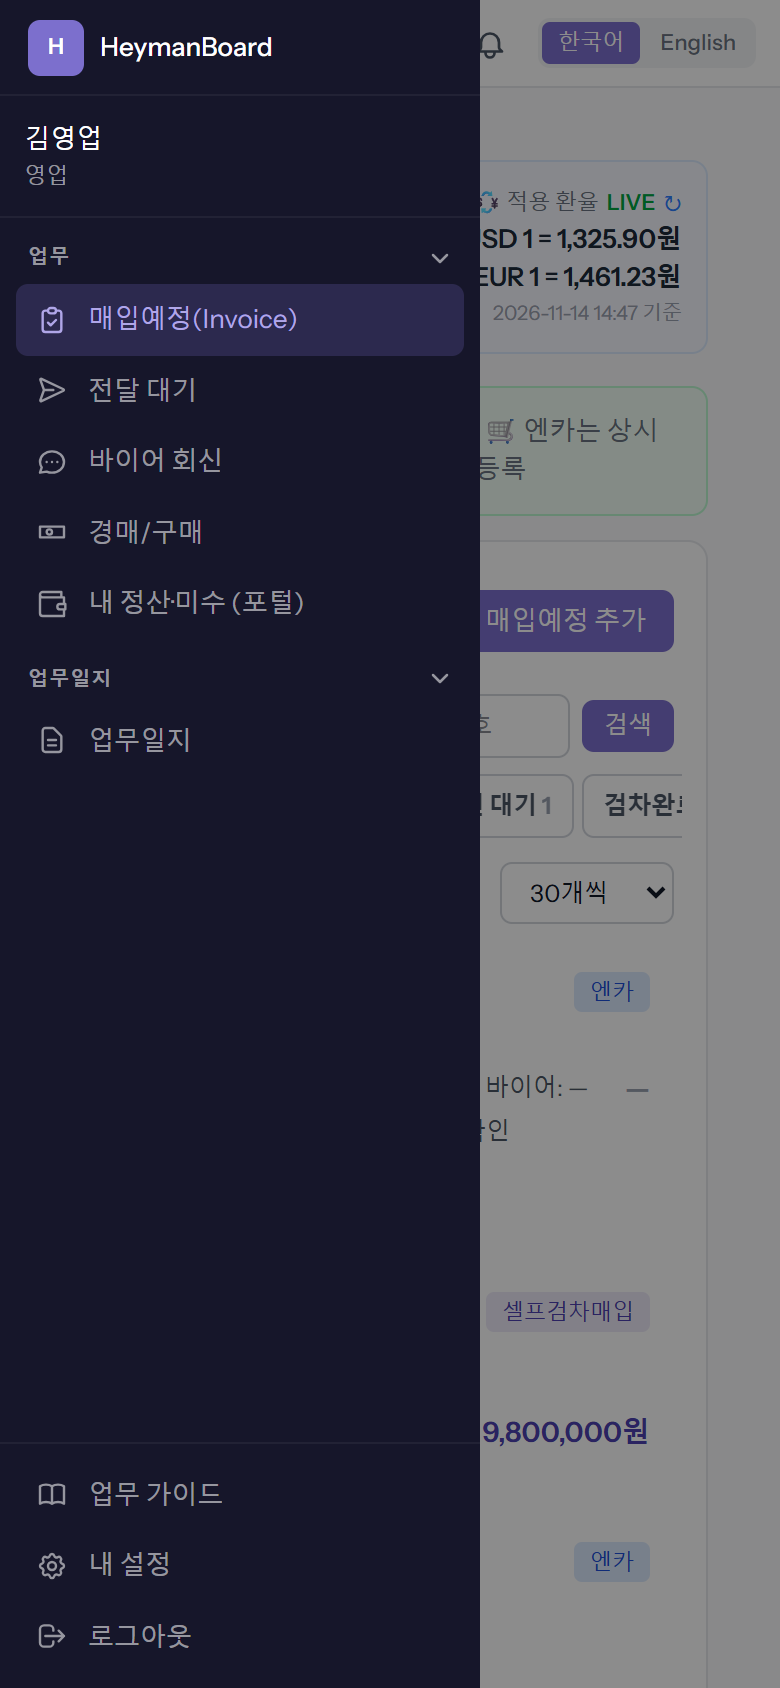
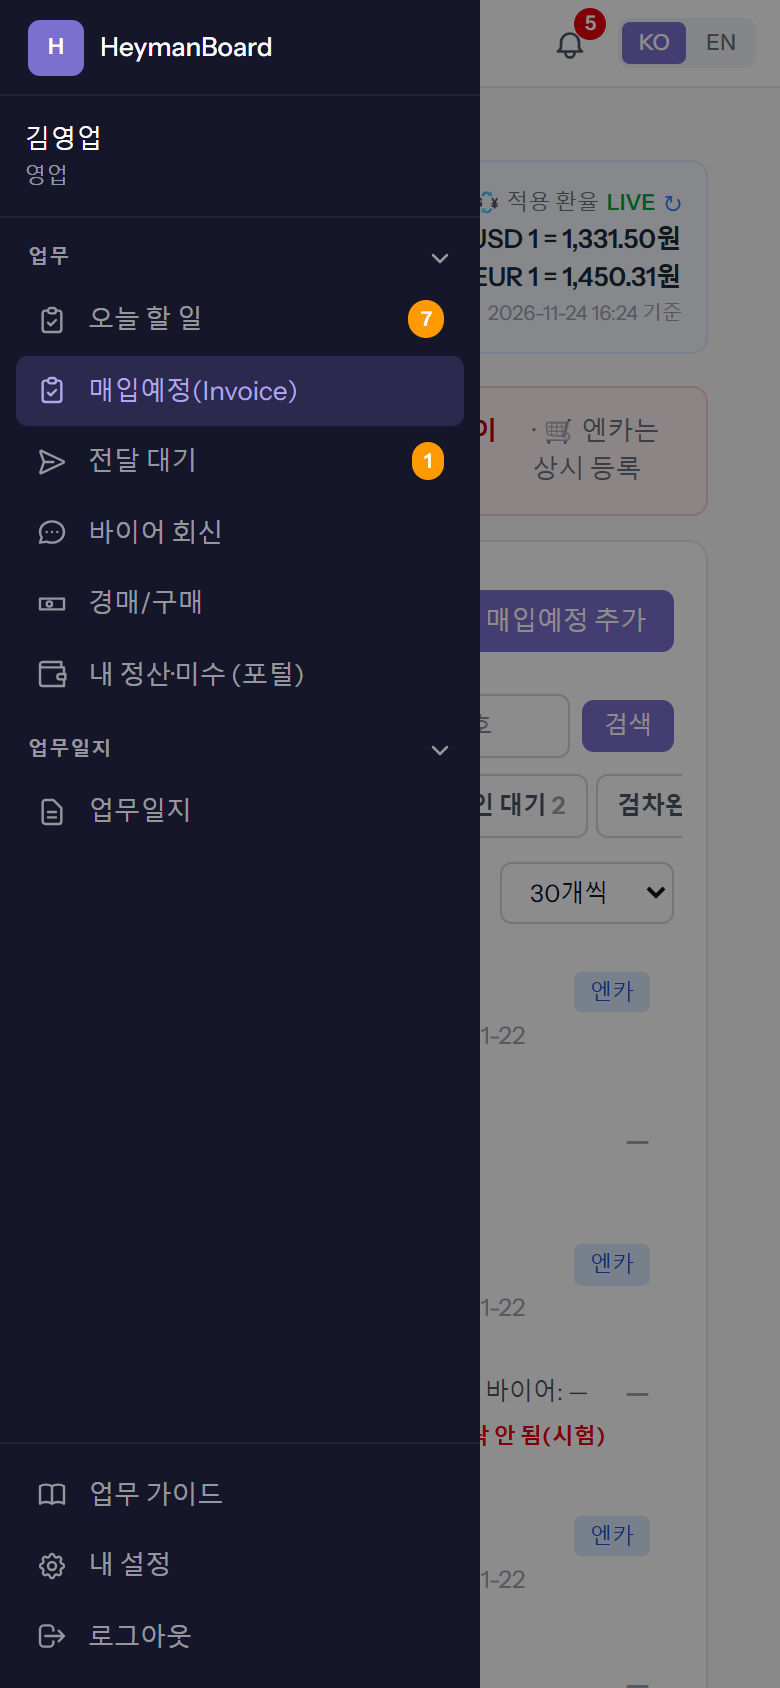
docs(guides): 「오늘 할 일」 가이드 새로(그림 3) + 클레임 묶어서 ERP 로 보내기·자동 종결·재결재 잠금(9단계·그림 4) + 포털 전체 보기 규칙·처음 쓰기 메뉴 그림 + 챗봇 카드 2장 추가·4장 보강(102장)

diff --git a/resources/guides/today/index.html b/resources/guides/today/index.html
@@ -1,0 +1,54 @@
+<!-- 오늘 할 일 — 로컬 가짜 계정으로 찍었다(2026-11-24). 영업 = 김영업(guide-demo@local.test), 팀 표 = 업무관리자 정팀장(leader@board.test).
+     77오7001~7003 은 줄 종류를 보이려고 로컬 DB 에 직접 넣은 가짜 차(7003 = 일부러 실패한 ERP 전송 기록). 금액·바이어·사유는 예시. -->
+
+<p style="margin:0 0 14px;color:#4b5563;line-height:1.65">
+    로그인하면 가장 먼저 뜨는 화면입니다. 내 차 가운데 <strong>지금 내가 손대야 움직이는 것</strong>만 한 줄씩 모아 보여 주고, 줄의 버튼을 누르면 <strong>평소 쓰는 그 화면</strong>이 그 차 상세 창이 열린 채로 뜹니다.
+    화면·버튼은 하나도 바뀌지 않았습니다. 찾아다니는 수고만 줄인 것입니다.
+</p>
+
+<h2 class="gd-sec">① 영업 — 내 할 일</h2>
+
+<div class="gd-step">
+    <div class="gd-n">1단계</div>
+    <h3>로그인하면 「오늘 할 일」이 뜹니다 — 위에서부터 처리합니다</h3>
+    <p>사이드바 맨 위 「오늘 할 일」 옆 숫자가 지금 남은 줄 수입니다. 줄은 급한 순서로 놓입니다 — <b>빨강</b>(내가 손대지 않으면 멈춰 있는 것) → <b>노랑</b>(답을 받아 처리할 차례) → <b>파랑</b>(다음 단계로 보낼 수 있는 것).</p>
+    <img src="01.png" alt="오늘 할 일 — ERP 로 넘어가지 않았습니다, 첨부 0장, 검차가 멈춰 있습니다, 바이어 회신, 검차 완료 줄과 열기 버튼" width="720">
+    <ul>
+        <li><b>ERP 로 넘어가지 않았습니다</b> — 구매확정은 했는데 ERP 전송이 실패했거나(재고 상한 초과 포함) 30분이 지나도 보낸 기록이 없는 차. 「경매/구매」에서 열어 다시 보냅니다.</li>
+        <li><b>구매확정을 못 하고 있습니다 — 첨부 0장</b> — 바이어가 수락했는데 딜러 사진·서류가 없어 확정이 막힌 차.</li>
+        <li><b>구매확정할 차례입니다</b> — 첨부까지 있고 확정만 남은 차.</li>
+        <li><b>검차가 멈춰 있습니다</b> — 검차원이 Skip(사유)했거나 지역이 비어 배정이 안 되는 차. 매입예정 상세 창에서 재검차 요청·지역 입력을 합니다.</li>
+        <li><b>바이어 회신을 처리할 차례입니다</b> — 바이어에게 전달한 차. 답을 받았으면 「바이어 회신」에서 수락·거절합니다.</li>
+        <li><b>검차 완료 — 바이어에게 전달할 수 있습니다</b> — 검차 사진·영상이 들어온 차.</li>
+        <li><b>배차가 거절됐습니다 / 배차완료 — 매입잔금 요청을 보낼 차례입니다</b> — 최근 14일 탁송 결과. 매입예정 상세 창 「탁송 배차」 탭이 열립니다.</li>
+    </ul>
+    <p>위의 칩 「막힘」·「다음 단계 가능」으로 거를 수 있습니다. 줄 아래 회색 글씨는 그 단계에 들어온 시각과 며칠째인지입니다.</p>
+</div>
+
+<div class="gd-step">
+    <div class="gd-n">2단계</div>
+    <h3>줄의 버튼을 누르면 평소 화면이 그 차를 연 채로 뜹니다</h3>
+    <p>예를 들어 [전달 화면에서 열기]를 누르면 「전달 대기」 화면이 열리고 그 차 상세 창이 바로 열려 있습니다. 처리는 평소처럼 그 창에서 합니다. 위 [← 오늘 할 일]을 누르면 돌아갑니다.</p>
+    <img src="03.png" alt="전달 대기 화면 — 위에 오늘 할 일로 돌아가는 버튼, 11가1005 상세 창이 열려 있음" width="720">
+    <p>처리하면 그 줄은 「오늘 할 일」에서 사라집니다(다음 단계 줄로 바뀌기도 합니다). 이미 다른 단계로 넘어간 차를 누르면 상세 창 없이 그 화면만 열립니다.</p>
+</div>
+
+<h2 class="gd-sec">② 관리·업무관리자 — 팀 표</h2>
+
+<div class="gd-step">
+    <div class="gd-n">3단계</div>
+    <h3>위의 팀 표에서 누가 어디서 막혔는지 봅니다</h3>
+    <p>관리·업무관리자 이상은 「오늘 할 일」 맨 위에 <b>팀 표</b>가 붙습니다 — 영업마다 칸별(ERP 안 넘어감·첨부 없음·검차 멈춤·배차·회신 대기·전달 가능·구매확정 대기) 줄 수. 숫자를 누르면 아래 목록이 그 사람의 그 칸 줄만 보여 주고, 다시 누르거나 [전체 보기]를 누르면 풀립니다.</p>
+    <img src="02.png" alt="팀 표 — 영업별 ERP 안 넘어감, 첨부 없음, 검차 멈춤, 배차, 회신 대기, 전달 가능, 구매확정 대기 칸과 내 할 일" width="720">
+    <p>팀 표 아래 「내 할 일」은 내가 직접 등록한 차의 줄입니다. 그 아래 「차 말고 내 차례인 것」에는 처리할 클레임·업무일지 결재 차례가 있으면 나옵니다.</p>
+</div>
+
+<div class="gd-check">
+    <h3>알아 둘 것</h3>
+    <ul>
+        <li>보이는 차는 평소와 같습니다 — 영업은 본인 차, 관리는 본인 + 포털을 공유해 준 영업의 차, 업무관리자 이상은 전체.</li>
+        <li>ERP 의 매입 락 승인 결과·입금 요청 확인/거절은 이 화면이 아니라 위쪽 종(🔔)에서 봅니다.</li>
+        <li>현지확인·경매 역할은 첫 화면이 종전 그대로입니다.</li>
+        <li>사이드바 숫자는 30초마다 다시 셉니다. 방금 처리한 줄이 숫자에 잠깐 남아 있을 수 있습니다.</li>
+    </ul>
+</div>

diff --git a/resources/guides/claim-handle/index.html b/resources/guides/claim-handle/index.html
@@ -1,6 +1,7 @@
 <!-- 클레임 — 로컬 가이드 차 11가1001(김영업 판매, 바이어 GUIDE SAMPLE TRADING)로 접수부터 ERP 반영까지 한 바퀴 찍었다(2026-11-14).
      담당자 = 관리자(로컬), 결재자 = 로컬 결재 직급 계정(임부장·오상무·홍대표). 바이어 증빙 그림 3장은 「업무 가이드 예시」라고 적은 가짜 그림.
-     결재 링크는 알림톡 대신 로컬에서 직접 만들어 열었다(결재자 전화번호 없음). 금액·사유는 예시. -->
+     결재 링크는 알림톡 대신 로컬에서 직접 만들어 열었다(결재자 전화번호 없음). 금액·사유는 예시.
+     9단계(묶어서 보내기, 2026-11-24) = 같은 로컬에서 바이어 「B2B데모 파트너 LLC」 가짜 클레임 2건(90데0001·90데0002)을 묶어 로컬 ERP 로 보냈다. -->
 
 <p style="margin:0 0 14px;color:#4b5563;line-height:1.65">
     바이어가 받은 차에 문제가 있다고 하면, 영업이 board 에 <strong>접수</strong>하고 → 클레임 담당자가 <strong>보고서</strong>를 써서 → 부장·상무·대표 <strong>결재</strong>를 받은 뒤 → 승인된 금액을 <strong>ERP</strong> 바이어 「클레임」 탭에 남깁니다.
@@ -98,13 +99,32 @@
     <p>건 맨 위에 「최종 승인」과 확정 금액이 뜨고 [ERP 로 보내기]가 생깁니다. 누르면 받을 바이어(접수 때 ERP 판매 기록에서 가져온 바이어)와 금액을 한 번 더 보여 줍니다. 바이어가 맞으면 [이 바이어로 보내기]. 다르면 보내지 말고 ERP 에서 그 차의 바이어를 먼저 고친 뒤 [ERP 다시 불러오기]를 누릅니다.</p>
     <img src="07.png" alt="ERP 로 보내기 — 받을 바이어 GUIDE SAMPLE TRADING, FINAL AMOUNT USD 250, REFUND" width="440">
     <img src="08.png" alt="ERP 바이어 클레임 탭에 반영했습니다 — ERP 반영됨 #1" width="720">
+    <p>ERP 로 보내면 그 건은 <strong>바로 종결</strong>됩니다(「종결」 탭으로 옮겨 갑니다). [종결]을 따로 누르지 않습니다.</p>
+</div>
+
+<div class="gd-step">
+    <div class="gd-n">9단계</div>
+    <h3>같은 바이어 건이 여러 개면 체크해서 [묶어서 ERP 로 보내기]</h3>
+    <p>목록에서 최종 승인된 건 앞에 체크칸이 있습니다. 같은 바이어 건을 2건 이상 체크하면 위에 「N건 선택 · 바이어 · 합계」 줄이 뜹니다. 다른 바이어 건을 누르면 체크되지 않고 노란 안내가 나옵니다.</p>
+    <img src="13.png" alt="클레임 목록 — 90데0001·90데0002 체크, 2건 선택 · B2B데모 파트너 LLC · 합계 EUR 750.00, 묶어서 ERP 로 보내기" width="720">
+    <p>[묶어서 ERP 로 보내기]를 누르면 받을 바이어와 <b>차마다 확정 금액</b>, 합계를 보여 줍니다. 맞으면 [N건 묶어서 보내기].</p>
+    <img src="14.png" alt="묶어서 ERP 로 보내기 창 — 받을 바이어 B2B데모 파트너 LLC, 90데0001 EUR 300, 90데0002 EUR 450, 합계 EUR 750" width="440">
+    <ul>
+        <li>ERP 바이어 「클레임」 탭에는 묶음 한 줄(합계)로 들어가고, 펼치면 차마다 금액이 그대로 보입니다.</li>
+        <li>하나라도 ERP 가 받지 않으면 <b>전부 안 들어갑니다</b>(board 도 아무것도 바뀌지 않고 빨간 사유가 뜹니다).</li>
+        <li>이미 따로 ERP 로 보낸 건도 묶음에 넣을 수 있습니다 — 창에 「이미 보냄 — 묶음에 연결」로 나옵니다.</li>
+        <li>판매 영업이 달라도 바이어가 같으면 묶을 수 있습니다. 통화가 다르면 묶을 수 없습니다.</li>
+    </ul>
+    <p>보내면 그 건들은 모두 종결되고, 목록·건 맨 위에 「묶음 …」 표시가 붙습니다.</p>
+    <img src="15.png" alt="종결 탭 — 묶음 표시가 붙은 클레임들" width="720">
+    <img src="16.png" alt="건 맨 위 — 종결, FINAL AMOUNT EUR 300, ERP 반영됨, 묶음 표시" width="560">
 </div>
 
 <div class="gd-check">
     <h3>알아 둘 것</h3>
     <ul>
-        <li>바이어와 합의가 끝나면 담당자가 [종결]합니다. 되돌릴 수 없습니다.</li>
-        <li>합의 금액이 승인액과 달라지면 칸을 고친 뒤 [다시 결재 요청] — 결재는 1단계부터 다시 시작합니다.</li>
+        <li>ERP 로 보내면 그 자리에서 종결됩니다. 되돌릴 수 없습니다. <b>ERP 로 보낸 건은 다시 결재 요청을 할 수 없습니다</b>(ERP 로 보낸 금액이 확정 금액).</li>
+        <li>합의 금액이 승인액과 달라지면 <b>ERP 로 보내기 전에</b> 칸을 고친 뒤 [다시 결재 요청] — 결재는 1단계부터 다시 시작합니다.</li>
         <li>반려된 건도 칸을 고쳐 다시 결재 요청할 수 있습니다.</li>
         <li>[자체승인]은 결재 중일 때만 보입니다. 누가 언제 처리했는지와 캡처 파일은 기록에 남습니다.</li>
         <li>클레임 담당자는 시스템관리자가 「기능설정」에서 정합니다. 결재 직급(부장·상무·대표)은 「사용자 관리」에서 정합니다.</li>

diff --git a/resources/guides/first-steps/index.html b/resources/guides/first-steps/index.html
@@ -62,8 +62,8 @@
 <div class="gd-step">
     <div class="gd-n">7단계</div>
     <h3>왼쪽 위 ☰ 메뉴 → 아래 「내 설정」에서 비밀번호를 바꿉니다</h3>
-    <p>메뉴에는 내 역할에 맞는 화면만 나옵니다. 맨 아래에 「업무 가이드」(지금 이 화면)·「내 설정」·「로그아웃」이 있습니다. 「내 설정」 → 「비밀번호」에서 현재 비밀번호와 새 비밀번호를 넣고 [저장].</p>
-    <img src="07.png" alt="메뉴 — 매입예정, 전달 대기, 바이어 회신, 경매/구매, 내 정산·미수 (포털), 업무일지, 업무 가이드, 내 설정, 로그아웃" width="390">
+    <p>로그인하면 먼저 「오늘 할 일」이 뜹니다(지금 내가 처리할 차만 모은 화면 — 「오늘 할 일」 가이드). 메뉴에는 내 역할에 맞는 화면만 나옵니다. 맨 아래에 「업무 가이드」(지금 이 화면)·「내 설정」·「로그아웃」이 있습니다. 「내 설정」 → 「비밀번호」에서 현재 비밀번호와 새 비밀번호를 넣고 [저장].</p>
+    <img src="07.png" alt="메뉴 — 오늘 할 일, 매입예정, 전달 대기, 바이어 회신, 경매/구매, 내 정산·미수 (포털), 업무일지, 업무 가이드, 내 설정, 로그아웃" width="390">
     <img src="08.png" alt="내 설정 — 비밀번호 변경: 현재·새·새 비밀번호 확인, 저장" width="390">
 </div>
 

diff --git a/resources/guides/portal-share/index.html b/resources/guides/portal-share/index.html
@@ -42,7 +42,7 @@
     <h3>알아 둘 것</h3>
     <ul>
         <li>공유받은 관리는 「매입예정」 화면에서도 <strong>본인 것 + 공유한 영업의 차</strong>만 봅니다. 공유가 하나도 없으면 본인이 등록한 차만 보입니다.</li>
-        <li>업무관리자·최고관리자는 공유와 상관없이 모든 영업을 볼 수 있습니다(보기만 — 대신 보내지는 못합니다).</li>
+        <li>역할이 「관리」인 업무관리자·최고관리자는 공유와 상관없이 모든 영업을 볼 수 있습니다(보기만 — 대신 보내지는 못합니다). 역할이 「영업」인 업무관리자는 포털에서 자기 것만 봅니다.</li>
         <li>관리의 역할이 바뀌면 공유는 저절로 풀립니다. 다시 맡기려면 영업이 다시 체크합니다.</li>
     </ul>
 </div>

diff --git a/config/guides.php b/config/guides.php
@@ -51,6 +51,7 @@ return [
         'manage-edit' => ['Fixing a car on the admin screen', 'Edit fields, roll back a status, delete or resend to the ERP'],
         'users-manage' => ['User management', 'Create accounts, set roles and link the ERP salesperson'],
         'audit-find' => ['Find who entered it in the audit log', 'Search by plate number, read the change history and the ERP transfer records'],
+        'today' => ['Today', 'The first screen after sign-in: what only you can move now, each opening the usual screen on that car'],
         'first-steps' => ['First steps', 'Sign in, add the app to your home screen, turn on phone alerts and pick a language'],
         'when-blocked' => ['When you are stuck', 'Why a button will not press and how to read the red notices'],
     ],
@@ -74,11 +75,12 @@ return [
         'settlement-read' => ['portal', '내 정산 읽는 법', '진행 중 정산과 월별 상세, 보류·추가 표시를 읽는 방법입니다', ['영업'], '정산 월별 지급보류 지급추가 마진율'],
         'shipping-plan' => ['portal', '선적', '선적 계획을 묶어 선적요청을 보내고 서류·전자서명·B/L 까지 진행합니다', ['영업', '관리'], '선적 계획 선적요청 포워딩사 컨테이너 판매계약서 전자서명 B/L 변경요청'],
         'portal-share' => ['portal', '내 포털 공유', '영업이 관리를 체크하면 그 관리가 대신 보고 대신 요청할 수 있습니다', ['영업', '관리'], '포털 공유 대신 실행'],
-        'claim-handle' => ['claim', '클레임', '접수하고 보고서를 써 결재를 받은 뒤 ERP 로 보냅니다', ['영업', '관리'], '클레임 접수 결재 요청 확정 금액 ERP 로 보내기'],
+        'claim-handle' => ['claim', '클레임', '접수하고 보고서를 써 결재를 받은 뒤 ERP 로 보냅니다(같은 바이어는 묶어서)', ['영업', '관리'], '클레임 접수 결재 요청 확정 금액 ERP 로 보내기 묶음 종결'],
         'work-journal' => ['journal', '업무일지', '쓰고 상신하면 결재선을 따라 결재됩니다', ['영업', '관리', '업무관리자'], '업무일지 상신 결재 반려'],
         'manage-edit' => ['manage', '관리자 화면에서 고치기', '필드를 고치고 상태를 되돌리거나 삭제·ERP 재전송을 합니다', ['관리', '업무관리자'], '관리자 수정 상태 되돌리기 삭제 재전송'],
         'users-manage' => ['manage', '사용자 관리', '계정을 만들고 역할과 ERP 영업 연결을 정합니다', ['관리', '업무관리자'], '계정 역할 비활성 ERP 영업 이메일'],
         'audit-find' => ['manage', '감사 로그에서 「누가 넣었나」 찾기', '차량번호로 찾아 변경 이력과 ERP 전송 기록을 봅니다', ['업무관리자'], '감사 로그 변경이력 전송 기록'],
+        'today' => ['common', '오늘 할 일', '로그인 첫 화면 — 지금 내가 손대야 움직이는 차만 모아, 누르면 평소 화면이 그 차를 연 채로 뜹니다', ['영업', '관리', '업무관리자'], '오늘 할 일 첫 화면 막힘 팀 표 ERP 안 넘어감 첨부 없음 검차 멈춤'],
         'first-steps' => ['common', '처음 쓰기', '로그인하고 홈 화면에 앱을 추가한 뒤 휴대폰 알림과 언어를 정합니다', ['영업', '관리', '업무관리자'], '로그인 홈 화면 앱 설치 알림 켜기 언어 영어'],
         'when-blocked' => ['common', '막혔을 때', '버튼이 안 눌리는 이유와 빨간 안내를 읽는 방법입니다', ['영업', '관리', '업무관리자'], '버튼 안 눌림 바이어 락 시간잠금 필수 오류'],
     ],

diff --git a/tests/Feature/GuidesPageTest.php b/tests/Feature/GuidesPageTest.php
@@ -70,10 +70,10 @@ class GuidesPageTest extends TestCase
         $this->scene('payment-request', '<div class="gd-step"><p>금액칸을 비우고 [매입잔금]을 누르면 남은 금액 전부를 요청합니다.</p></div>');
 
         $all = collect(GuideCatalog::all())->keyBy('slug');
-        $this->assertCount(24, $all);
+        $this->assertCount(25, $all);
         $this->assertSame('new', $all['payment-request']['status']);
         $this->assertSame('wait', $all['listing-register']['status']);
-        $this->assertSame(range(1, 24), $all->pluck('no')->values()->all());
+        $this->assertSame(range(1, 25), $all->pluck('no')->values()->all());
 
         $this->actingAs($this->staff())->get('/guides')->assertOk()
             ->assertSee('업무 가이드')
